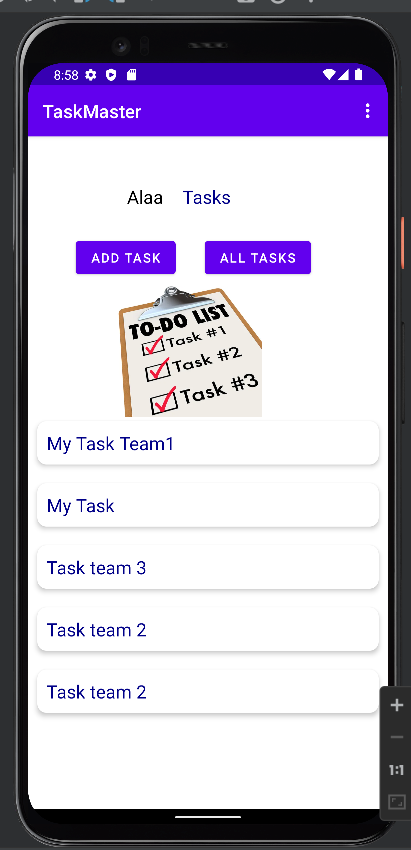
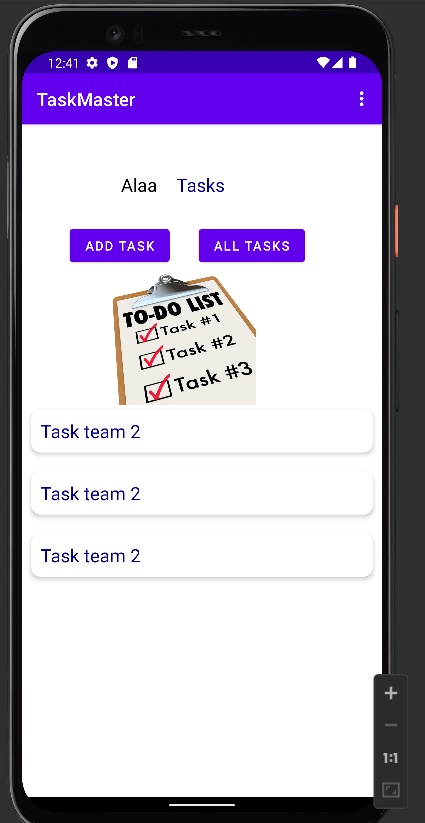
Lab 33 Update the MainActivity,So render the tasks for specific team

Changed region(s): [[0.0, 0.0, 0.9927, 1.0], [0.292, 0.2126, 0.5547, 0.243], [0.9635, 0.8202, 0.9927, 0.8505]]

diff --git a/taskmaster/app/src/main/java/com/example/taskmaster/MainActivity.java b/taskmaster/app/src/main/java/com/example/taskmaster/MainActivity.java
@@ -39,10 +39,8 @@ public class MainActivity extends AppCompatActivity {
     List<Team> teamsListData = new ArrayList<>();
     List<Task> tasksListDatabase = new ArrayList<>();
 
-    String teamName="No Team setting";
-
+    String teamName="";
     private Handler handler;
-    private Handler handler2;
 
     // Move to the ADD TASK Page
     private final View.OnClickListener addButtonListener = new View.OnClickListener() {
@@ -67,7 +65,7 @@ public class MainActivity extends AppCompatActivity {
         }
     };
 
-    List<com.example.taskmaster.data.Task> tasksList = new ArrayList<>();
+    //List<com.example.taskmaster.data.Task> tasksList = new ArrayList<>();
 
 
 
@@ -82,10 +80,7 @@ public class MainActivity extends AppCompatActivity {
         username = findViewById(R.id.username);
 
         initialTeams();
-//        handler = new Handler(Looper.getMainLooper(), msg -> {
-//
-//            return true;
-//        });
+
 //////////// Lab 28 Recycler View //////////////////////
 
         //initialiseData();
@@ -95,16 +90,14 @@ public class MainActivity extends AppCompatActivity {
         //List<Task> tasksListDatabase = AppDatabase.getInstance(getApplicationContext()).taskDao().getAll();
 
         // Get All Tasks Using Amplify Query
-        tasksListDatabase = new ArrayList<>();
-        getTasks();
+        getTeamTask();
+
         // Fetch the Data From the Database Locally
 //        Amplify.DataStore.query(Task.class,
 //                tasks -> {
 //                    while (tasks.hasNext()) {
 //                        Task task = tasks.next();
 //                        tasksListDatabase.add(task);
-//                        Log.i(TAG, "==== Task ====");
-//                        Log.i(TAG, "Name: " + task.getTitle());
 //                    }
 //                },
 //                failure -> Log.e(TAG, "Could not query DataStore", failure)
@@ -112,7 +105,31 @@ public class MainActivity extends AppCompatActivity {
         //////////////////////////////////////////////
         //Lab 32 :
         // Receive message from API Query to show the Tasks List in the Recycler View >>
-        RecyclerViewHandler();
+        handler = new Handler(Looper.getMainLooper(), msg -> {
+                // get the recycler view object
+                RecyclerView recyclerView = findViewById(R.id.recycler_view);
+                // create an Adapter // Custom Adapter
+                customRecyclerViewAdapter = new CustomAdapter(
+                        tasksListDatabase, position -> {
+                    Toast.makeText(
+                            MainActivity.this,
+                            "The task clicked => " + tasksListDatabase.get(position).getTitle(), Toast.LENGTH_SHORT).show();
+
+                    Intent intent = new Intent(getApplicationContext(), DetailTask.class);
+                    //send the Id
+                    intent.putExtra("id", tasksListDatabase.get(position).getId());
+                    startActivity(intent);
+                });
+                // set adapter on recycler view
+                recyclerView.setAdapter(customRecyclerViewAdapter);
+
+                // set other important properties
+                recyclerView.setHasFixedSize(true);
+                recyclerView.setLayoutManager(new LinearLayoutManager(this));
+
+            return true;
+
+        });
 
 /////////// Lab 27 Intent ////////////////////
 
@@ -145,34 +162,65 @@ public class MainActivity extends AppCompatActivity {
         allButton.setOnClickListener(allButtonListener);
     }
 
-    private void RecyclerViewHandler() {
-        handler = new Handler(Looper.getMainLooper(), msg -> {
-            // get the recycler view object
-            RecyclerView recyclerView = findViewById(R.id.recycler_view);
-            // create an Adapter // Custom Adapter
-            customRecyclerViewAdapter = new CustomAdapter(
-                    tasksListDatabase, position -> {
-                Toast.makeText(
-                        MainActivity.this,
-                        "The task clicked => " + tasksListDatabase.get(position).getTitle(), Toast.LENGTH_SHORT).show();
+    private void getTeamTask(){
+        Log.i(TAG, "==== Team Inside ==== " + teamName);
 
-                Intent intent = new Intent(getApplicationContext(), DetailTask.class);
-                //send the Id
-                intent.putExtra("id", tasksListDatabase.get(position).getId());
-                startActivity(intent);
-            });
-            // set adapter on recycler view
-            recyclerView.setAdapter(customRecyclerViewAdapter);
+        Amplify.API.query(
+                ModelQuery.list(Team.class),
+                teams -> {
+                    for(Team team : teams.getData()){
+                        if(team.getName().equals(teamName)){
+                            Amplify.API.query(
+                               ModelQuery.list(Task.class,Task.TEAM_TASKS_ID.eq(team.getId())),
+                               success -> {
+                                 tasksListDatabase = new ArrayList<>();
+                                 if (success.hasData()) {
+                                     for (Task task : success.getData()) {
+                                         tasksListDatabase.add(task);
+                                     }
+                                 }
+                               Log.i(TAG, "==== Task List  ====" + tasksListDatabase);
+                                 // Send message to the handler to show the Tasks List in the Recycler View >>
+                               Bundle bundle = new Bundle();
+                               bundle.putString("teamName", success.toString());
 
-            // set other important properties
-            recyclerView.setHasFixedSize(true);
-            recyclerView.setLayoutManager(new LinearLayoutManager(this));
+                               Message message = new Message();
+                               message.setData(bundle);
 
-            return true;
+                               handler.sendMessage(message);
+//                                        runOnUiThread(() -> {
+//                                            // get the recycler view object
+//                                            RecyclerView recyclerView = findViewById(R.id.recycler_view);
+//                                            // create an Adapter // Custom Adapter
+//                                            customRecyclerViewAdapter = new CustomAdapter(
+//                                                    tasksListDatabase, position -> {
+//                                                Toast.makeText(
+//                                                        MainActivity.this,
+//                                                        "The task clicked => " + tasksListDatabase.get(position).getTitle(), Toast.LENGTH_SHORT).show();
+//
+//                                                Intent intent = new Intent(getApplicationContext(), DetailTask.class);
+//                                                //send the Id
+//                                                intent.putExtra("id", tasksListDatabase.get(position).getId());
+//                                                startActivity(intent);
+//                                            });
+//                                            // set adapter on recycler view
+//                                            recyclerView.setAdapter(customRecyclerViewAdapter);
+//
+//                                            // set other important properties
+//                                            recyclerView.setHasFixedSize(true);
+//                                            recyclerView.setLayoutManager(new LinearLayoutManager(this));
+//                                        });
+                                    },
+                               error -> Log.e(TAG, error.toString(), error)
+                            );
+                        }
+                    }
 
-        });
+
+                },
+                error -> Log.e(TAG, error.toString(), error)
+        );
     }
-
     private void getTasks() {
         //////////////////////////////////////////////
         /*
@@ -184,44 +232,17 @@ public class MainActivity extends AppCompatActivity {
                     ModelQuery.list(Task.class),
                     success -> {
                         tasksListDatabase = new ArrayList<>();
+
                         if (success.hasData()) {
                             for (Task task : success.getData()) {
                                 tasksListDatabase.add(task);
                             }
                         }
+
                         Log.i(TAG, "==== Task List1  ====" + tasksListDatabase);
                         // Send message to the handler to show the Tasks List in the Recycler View >>
                         Bundle bundle = new Bundle();
                         bundle.putString("tasksList", success.toString());
-
-                        Message message = new Message();
-                        message.setData(bundle);
-
-                        handler.sendMessage(message);
-
-//                    runOnUiThread(() -> {
-//                        customRecyclerViewAdapter.setTasksList(tasksListDatabase);
-//                    });
-                    },
-                    error -> Log.e(TAG, error.toString(), error)
-            );
-        }else {
-        // This NOT work it returns null :/ !!!!!!!!!!!!!
-            Amplify.API.query(
-                    ModelQuery.get(Team.class, teamName),
-                    team -> {
-                        Log.i(TAG, "==== Team  ==== " + team);
-                        for (Task task:
-                                team.getData().getTasks() ) {
-                            tasksListDatabase.add(task);
-                        }
-
-                        Log.i(TAG, "==== Task List2  ====" + tasksListDatabase);
-                        Log.i(TAG, "==== Team Id   ====" + teamName);
-
-                        // Send message to the handler to show the Tasks List in the Recycler View >>
-                        Bundle bundle = new Bundle();
-                        bundle.putString("tasksList", team.toString());
 
                         Message message = new Message();
                         message.setData(bundle);
@@ -256,9 +277,8 @@ public class MainActivity extends AppCompatActivity {
         Log.i(TAG, "onResume: called - The App is VISIBLE");
         super.onResume();
         setUserNameTeamName();
-
-        //getTasks();
-       // RecyclerViewHandler();
+        getTeamTask();
+       // getTasks();
     }
 
 
@@ -312,18 +332,7 @@ public class MainActivity extends AppCompatActivity {
        // Log.i(TAG, "==== user name new   ====" + username);
         teamName =  sharedPreferences.getString(SettingsActivity.TEAMNAME, "No Team setting");
         Log.i(TAG, "==== Team name new   ====" + teamName);
-
-        // Send message to the handler to show the Tasks List in the Recycler View >>
-        Bundle bundle = new Bundle();
-        bundle.putString("tasksList", teamName);
-
-        Message message = new Message();
-        message.setData(bundle);
-
-        handler.sendMessage(message);
-
     }
-
 
     /////////////////////////////////////////////////////////////////
 //    private  void initialiseData(){

diff --git a/taskmaster/app/src/main/java/com/example/taskmaster/DetailTask.java b/taskmaster/app/src/main/java/com/example/taskmaster/DetailTask.java
@@ -35,14 +35,11 @@ public class DetailTask extends AppCompatActivity {
         //get the task by Id
         //Task taskRecived = AppDatabase.getInstance(getApplicationContext()).taskDao().getTaskById(idRecived);
 
-
-
         TextView title = findViewById(R.id.title);
         TextView body = findViewById(R.id.description);
         TextView state = findViewById(R.id.state);
 
         // API query
-
 //        Amplify.API.query(
 //                ModelQuery.list(com.amplifyframework.datastore.generated.model.Task.class, com.amplifyframework.datastore.generated.model.Task.ID.eq(id)),
 //                response -> {
@@ -50,7 +47,6 @@ public class DetailTask extends AppCompatActivity {
 //                        Log.i(TAG, "------------------> " + task.getTitle());
 //                        taskReceived.set(task);
 //                    }
-//
 //                    runOnUiThread(() -> {
 //
 //                    });
@@ -62,7 +58,6 @@ public class DetailTask extends AppCompatActivity {
                 ModelQuery.get(Task.class, id),
                 response -> {
                     Task taskTest = response.getData();
-
                     // Send message to the handler to show The task Details  >>
 //                    Bundle bundle = new Bundle();
 //                    bundle.putString("taskReceived",response.toString());

diff --git a/README.md b/README.md
@@ -67,7 +67,7 @@ Start Work with AWS Amplify.
   
 ### Lab 33
 Start Work with AWS Amplify.  
-* Main Activity : has two Tasks buttons, Add Task and All Tasks, the user name , and list for the all tasks(The List of tasks must be only the ones which belongs to the team, BUT it doesn't work with me, there is some issue in reading the team name saved).
+* Main Activity : has two Tasks buttons, Add Task and All Tasks, the user name , and list for the all tasks(The List of tasks must be only the ones which belongs to the team).
 * Settings Activity : Let the user write his/het user name, chose the team and submit by click on submit button to save the username and the team name.  
 * DetailTask Activity : show the task title you pressed, description, and the state for this task. It has delete button for deleteing this task(Not work now).  
 * AddTask Activity : add the title, description and the team for this Task.  
